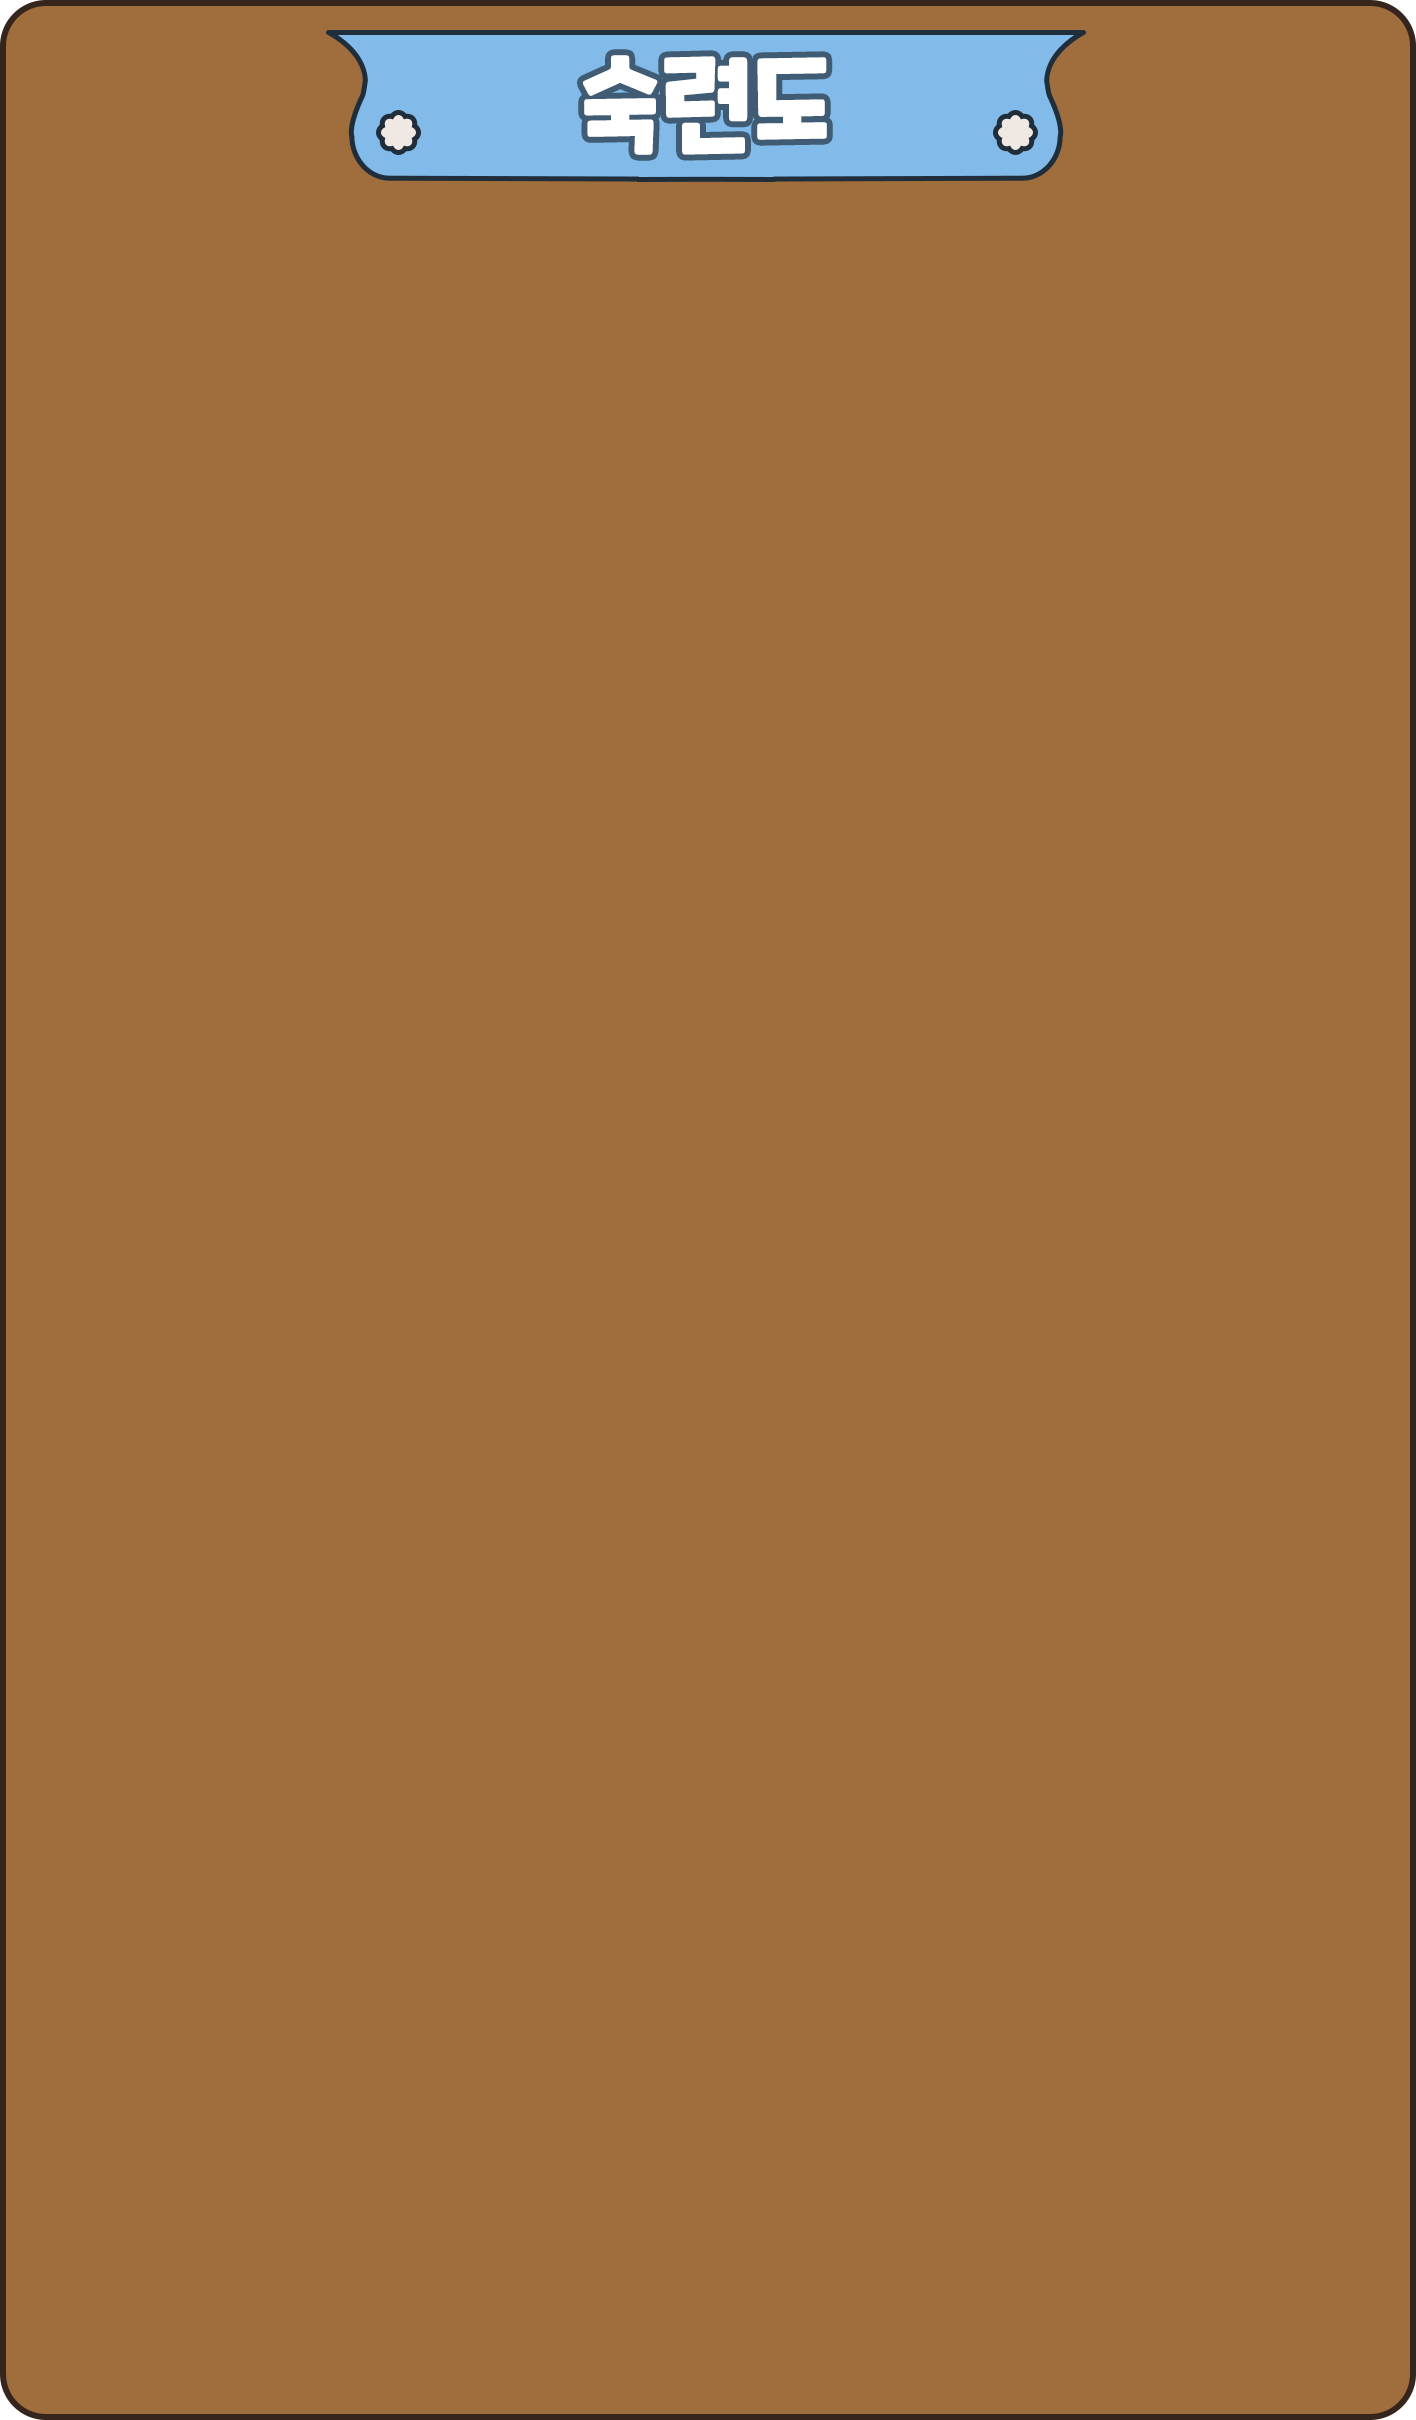
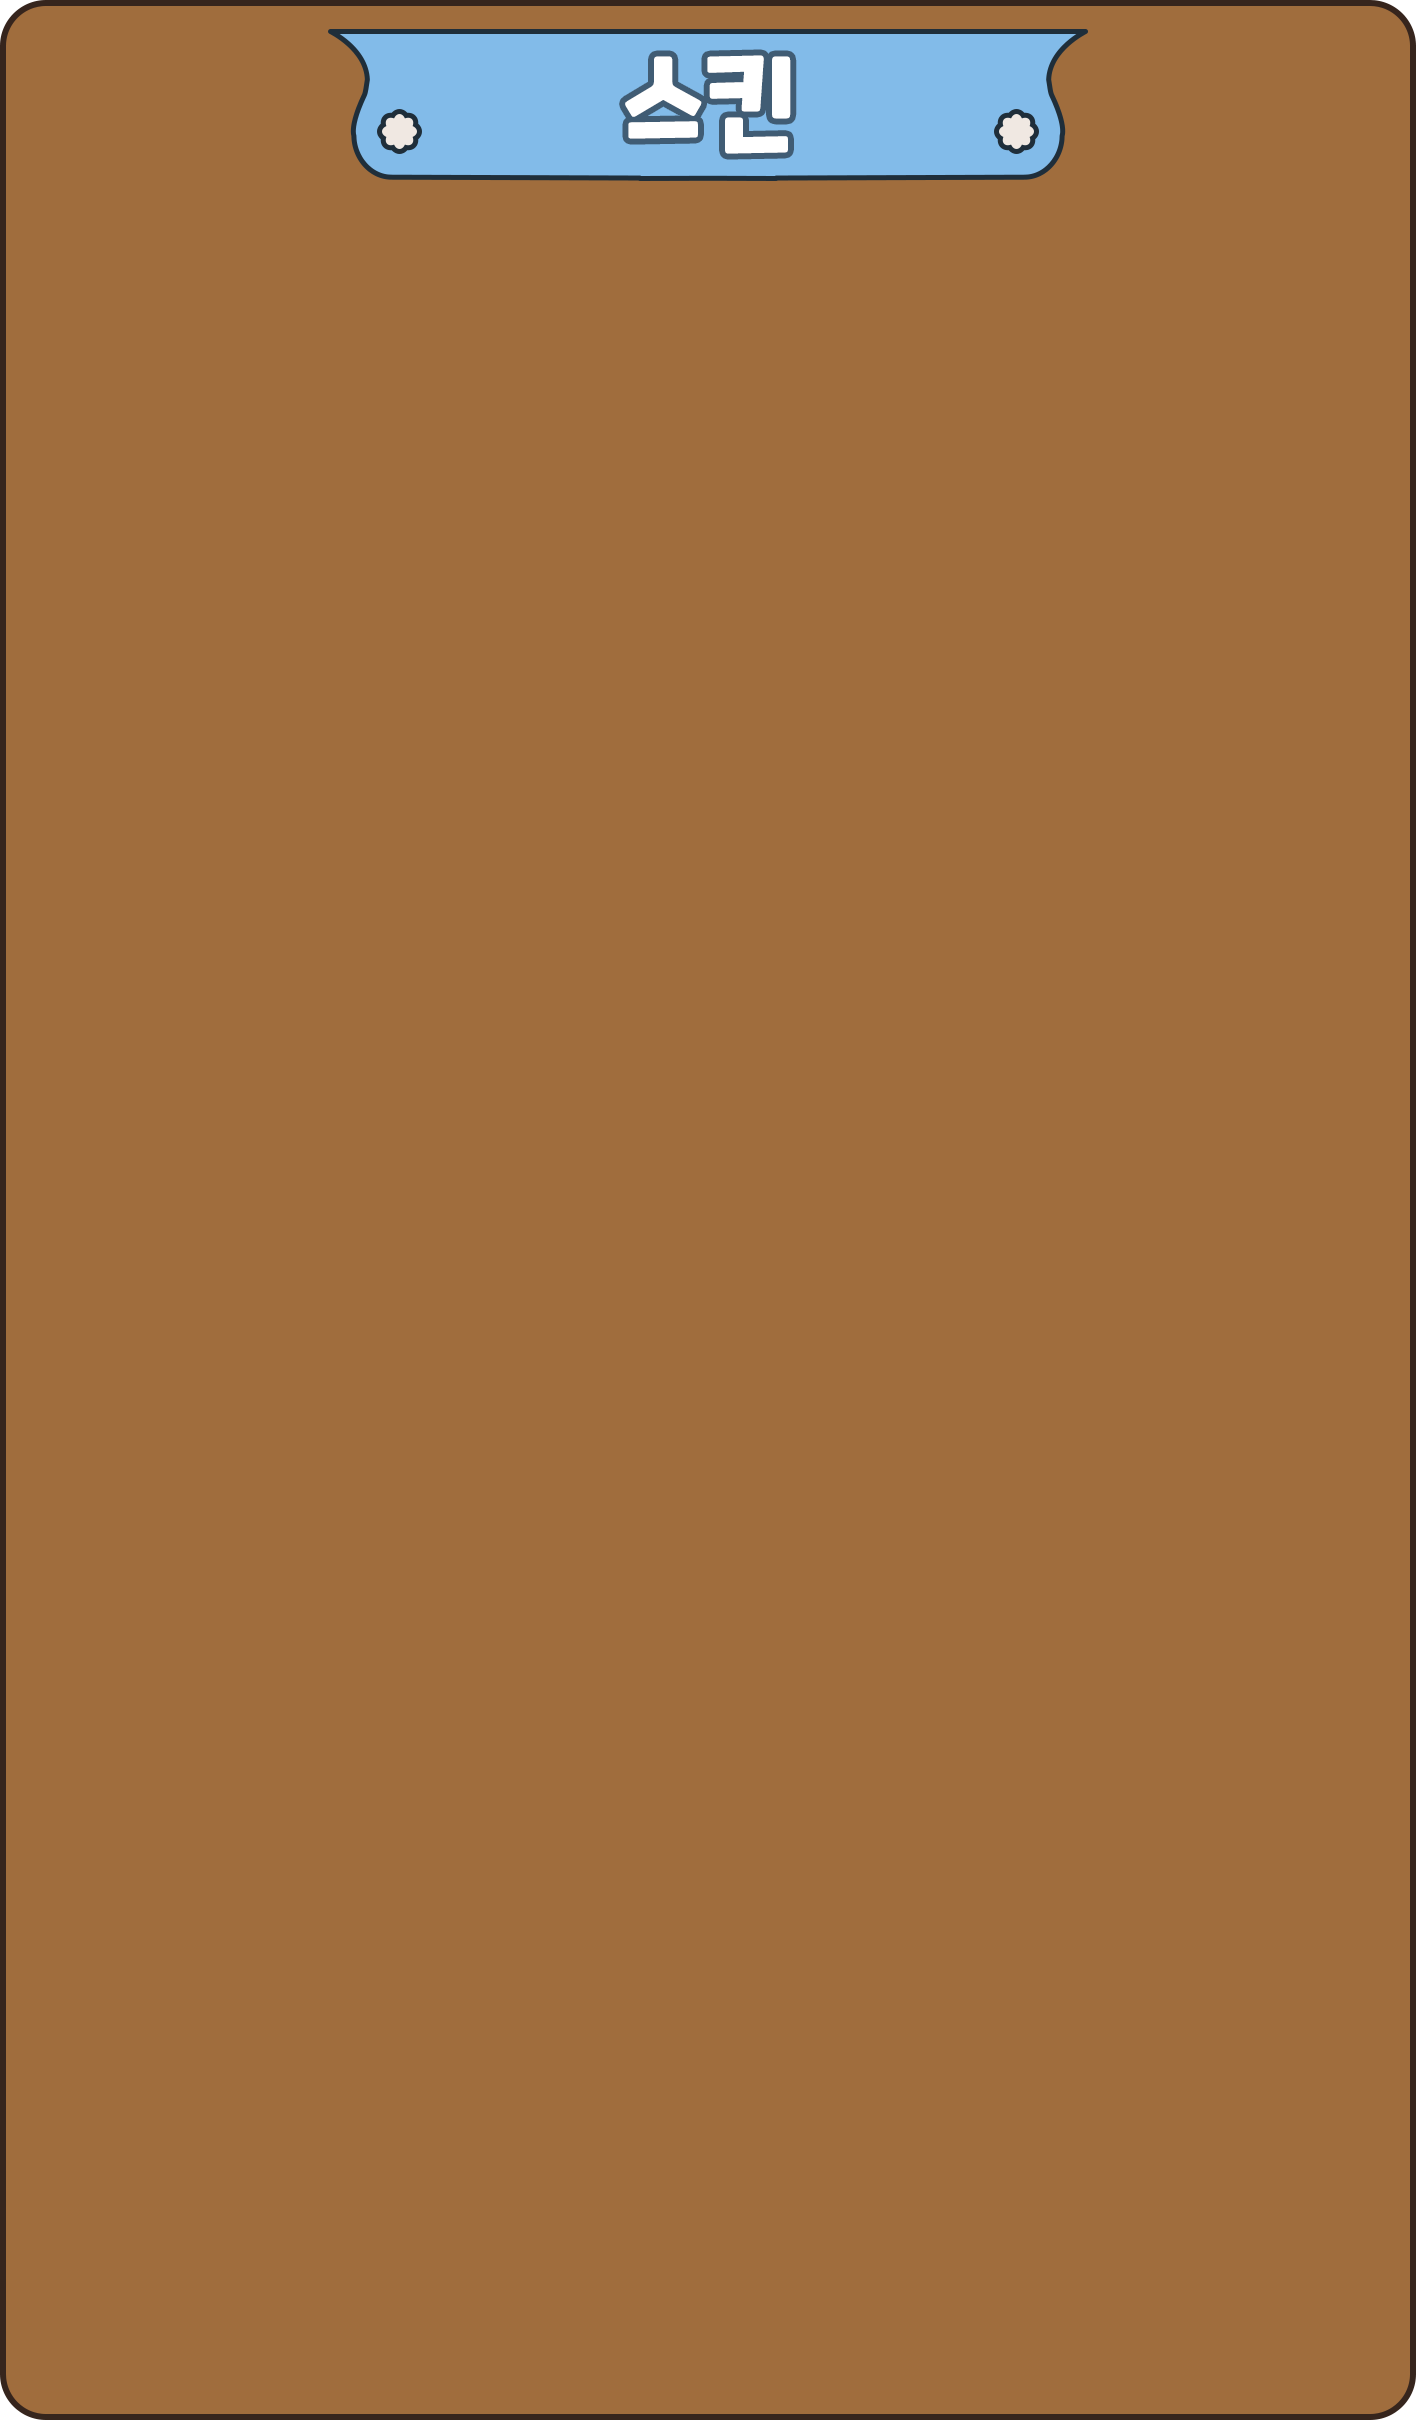
버그 수정, 숙련도 시스템 제거 및 보상 보석으로 전체적 수정
버그 수정, 숙련도 시스템 제거 및 보상 보석으로 전체적 수정

Changed region(s): [[0.404, 0.0, 0.5904, 0.093], [0.7147, 0.031, 0.7458, 0.062], [0.2486, 0.031, 0.2797, 0.062]]

diff --git a/Assets/Scripts/Managers/BattleSceneManager.cs b/Assets/Scripts/Managers/BattleSceneManager.cs
@@ -1,8 +1,3 @@
-using System.Collections;
-using System.Collections.Generic;
-using UnityEngine;
-using UnityEngine.UI;
-
 public enum MaterialRating
 {
     IntermediateMaterial,

diff --git a/Assets/Scripts/Managers/RiggingManager.cs b/Assets/Scripts/Managers/RiggingManager.cs
@@ -1,5 +1,3 @@
-using System.Collections;
-using System.Collections.Generic;
 using UnityEngine;
 using UnityEngine.UI;
 

diff --git a/Assets/Scripts/Player/SkillManager.cs b/Assets/Scripts/Player/SkillManager.cs
@@ -1,4 +1,3 @@
-using System.Collections;
 using System.Collections.Generic;
 using UnityEngine;
 using UnityEngine.UI;
